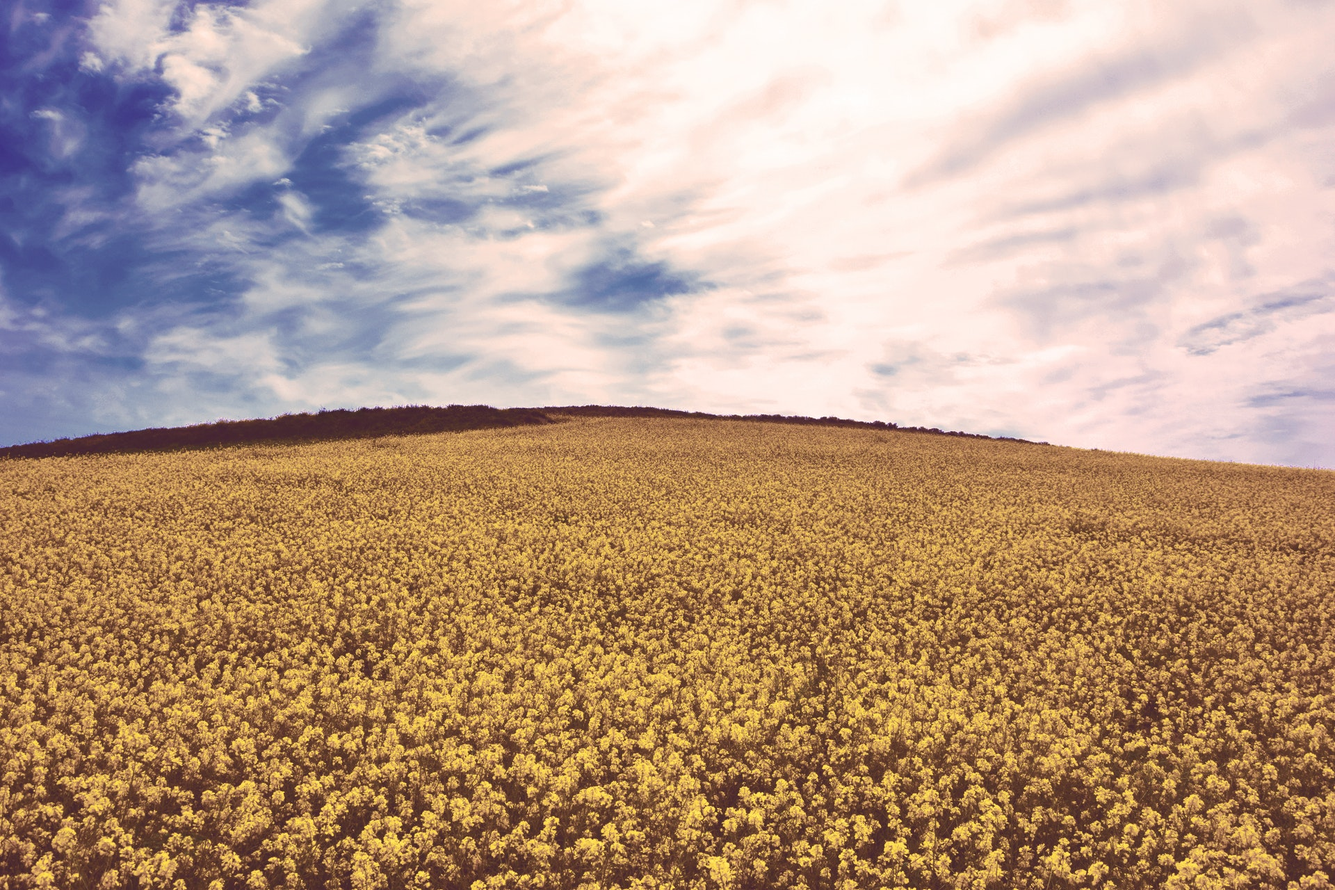
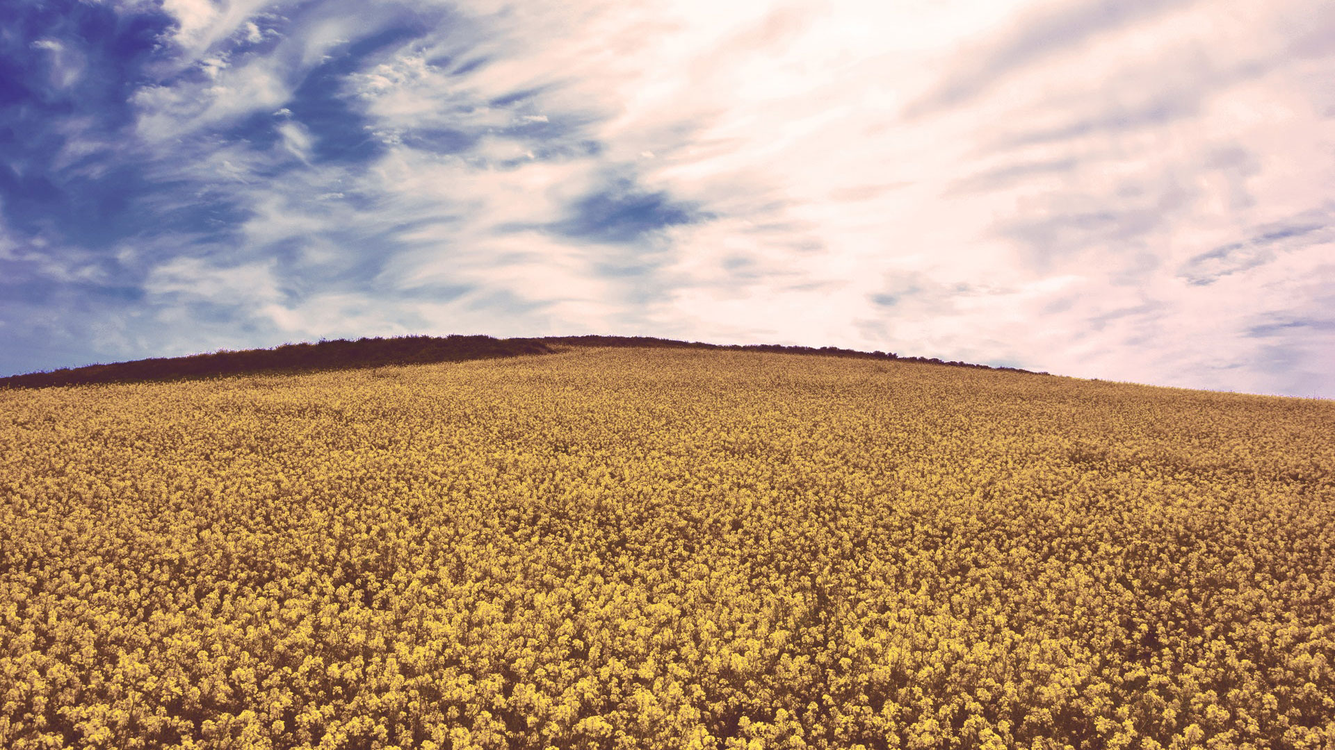
Fix resize

diff --git a/src/components/Game/game/view/Cell.ts b/src/components/Game/game/view/Cell.ts
@@ -1,4 +1,4 @@
-import { Container, Graphics, Text, TextStyle } from 'pixi.js';
+import { BLEND_MODES, Container, Graphics, Text, TextStyle } from 'pixi.js';
 import happens from 'happens';
 import gsap from 'gsap';
 
@@ -13,6 +13,7 @@ export default class Cell {
   private text: Text;
   public on: Function;
   public emit: Function;
+  private graphics: any;
   private animation: {
     progress: number
   }
@@ -31,11 +32,12 @@ export default class Cell {
     this.sprite = new Container();
     this.text = new Text('', style);
     this.text.anchor.set(0.5);
-    const graphics = new Graphics();
-    graphics.beginFill(0xFF0000);
-    graphics.alpha = 0;
-    graphics.drawRect(-size / 2, -size / 2, size, size);
-    this.sprite.addChild(graphics);
+    this.graphics = new Graphics();
+    this.graphics.beginFill(0xFFFFFF);
+    this.graphics.alpha = 0;
+    this.graphics.drawRect(-size / 2, -size / 2, size + 1, size + 1);
+    this.sprite.addChild(this.graphics);
+    this.text.blendMode = BLEND_MODES.EXCLUSION;
     this.sprite.addChild(this.text)
     this.sprite.buttonMode = true;
     this.sprite.interactive = true;
@@ -49,6 +51,9 @@ export default class Cell {
     if (this.state === 1) {
       gsap.killTweensOf(this.animation);
       this.text.text = this.finalLetter;
+      this.graphics.alpha = 0.8;
+      gsap.killTweensOf(this.graphics);
+      gsap.to(this.graphics, { duration: 0.15, alpha: 0, delay: 0.4 })
       this.emit('click', this);
     }
   }
@@ -73,7 +78,7 @@ export default class Cell {
       progress: 1,
       ease: 'power4.out',
       onUpdate: () => {
-        this.sprite.scale.set(this.animation.progress);
+        this.text.scale.set(this.animation.progress);
         const index = Math.floor(Math.random() * alphabet.length);
         if (this.animation.progress >= 0.99) {
           this.text.text = finalLetter;
@@ -91,8 +96,8 @@ export default class Cell {
       progress: 0,
       ease: 'expo.out',
       onUpdate: () => {
-        this.sprite.scale.set(this.animation.progress);
-      }
+        this.text.scale.set(this.animation.progress);
+      },
     })
     // gsap.to(this.sprite, { duration: 0.5, scale: 0, ease: 'expo.out' })
   }

diff --git a/src/components/Game/game/Background.ts b/src/components/Game/game/Background.ts
@@ -1,6 +1,7 @@
 import { DisplacementFilter } from '@pixi/filter-displacement';
 import { Container, Sprite, Texture, WRAP_MODES } from 'pixi.js';
 import gsap from 'gsap';
+import resize from '@doublepi/resize';
 
 const FACTOR = 2000;
 
@@ -28,6 +29,7 @@ export default class Background {
       this.images.push(s);
       container.addChild(s);
     })
+    this.resize();
   }
 
   intro(cb: any) {
@@ -55,6 +57,10 @@ export default class Background {
   }
 
   resize() {
-
+    const size = resize(1920, 1080, window.innerWidth, window.innerHeight);
+    this.images.forEach(s => {
+      s.width = size.width;
+      s.height = size.height;
+    })
   }
 }

diff --git a/src/components/Game/game/WhackAMole.ts b/src/components/Game/game/WhackAMole.ts
@@ -40,7 +40,7 @@ export default class WhackAMole {
   }
 
   init() {
-    this.pixi = new PIXI.Application({ resolution: 2, width: window.innerWidth, height: innerHeight, view: this.canvas, backgroundColor: this.theme.color.darkGray.replace('#', '0x')});
+    this.pixi = new PIXI.Application({ forceCanvas: true,resolution: 2, width: window.innerWidth, height: innerHeight, view: this.canvas, backgroundColor: this.theme.color.darkGray.replace('#', '0x')});
     this.sprites = [];
     this.gridContainer = square(window.innerWidth, window.innerHeight, 0xFFFFFF)
     this.preloadAssets().then(() => {

diff --git a/src/types/declaration.d.ts b/src/types/declaration.d.ts
@@ -11,3 +11,4 @@ declare module 'fontfaceobserver';
 declare module 'scramble-text';
 declare module '@pixi/filter-displacement'
 declare module 'happens';
+declare module '@doublepi/resize';
